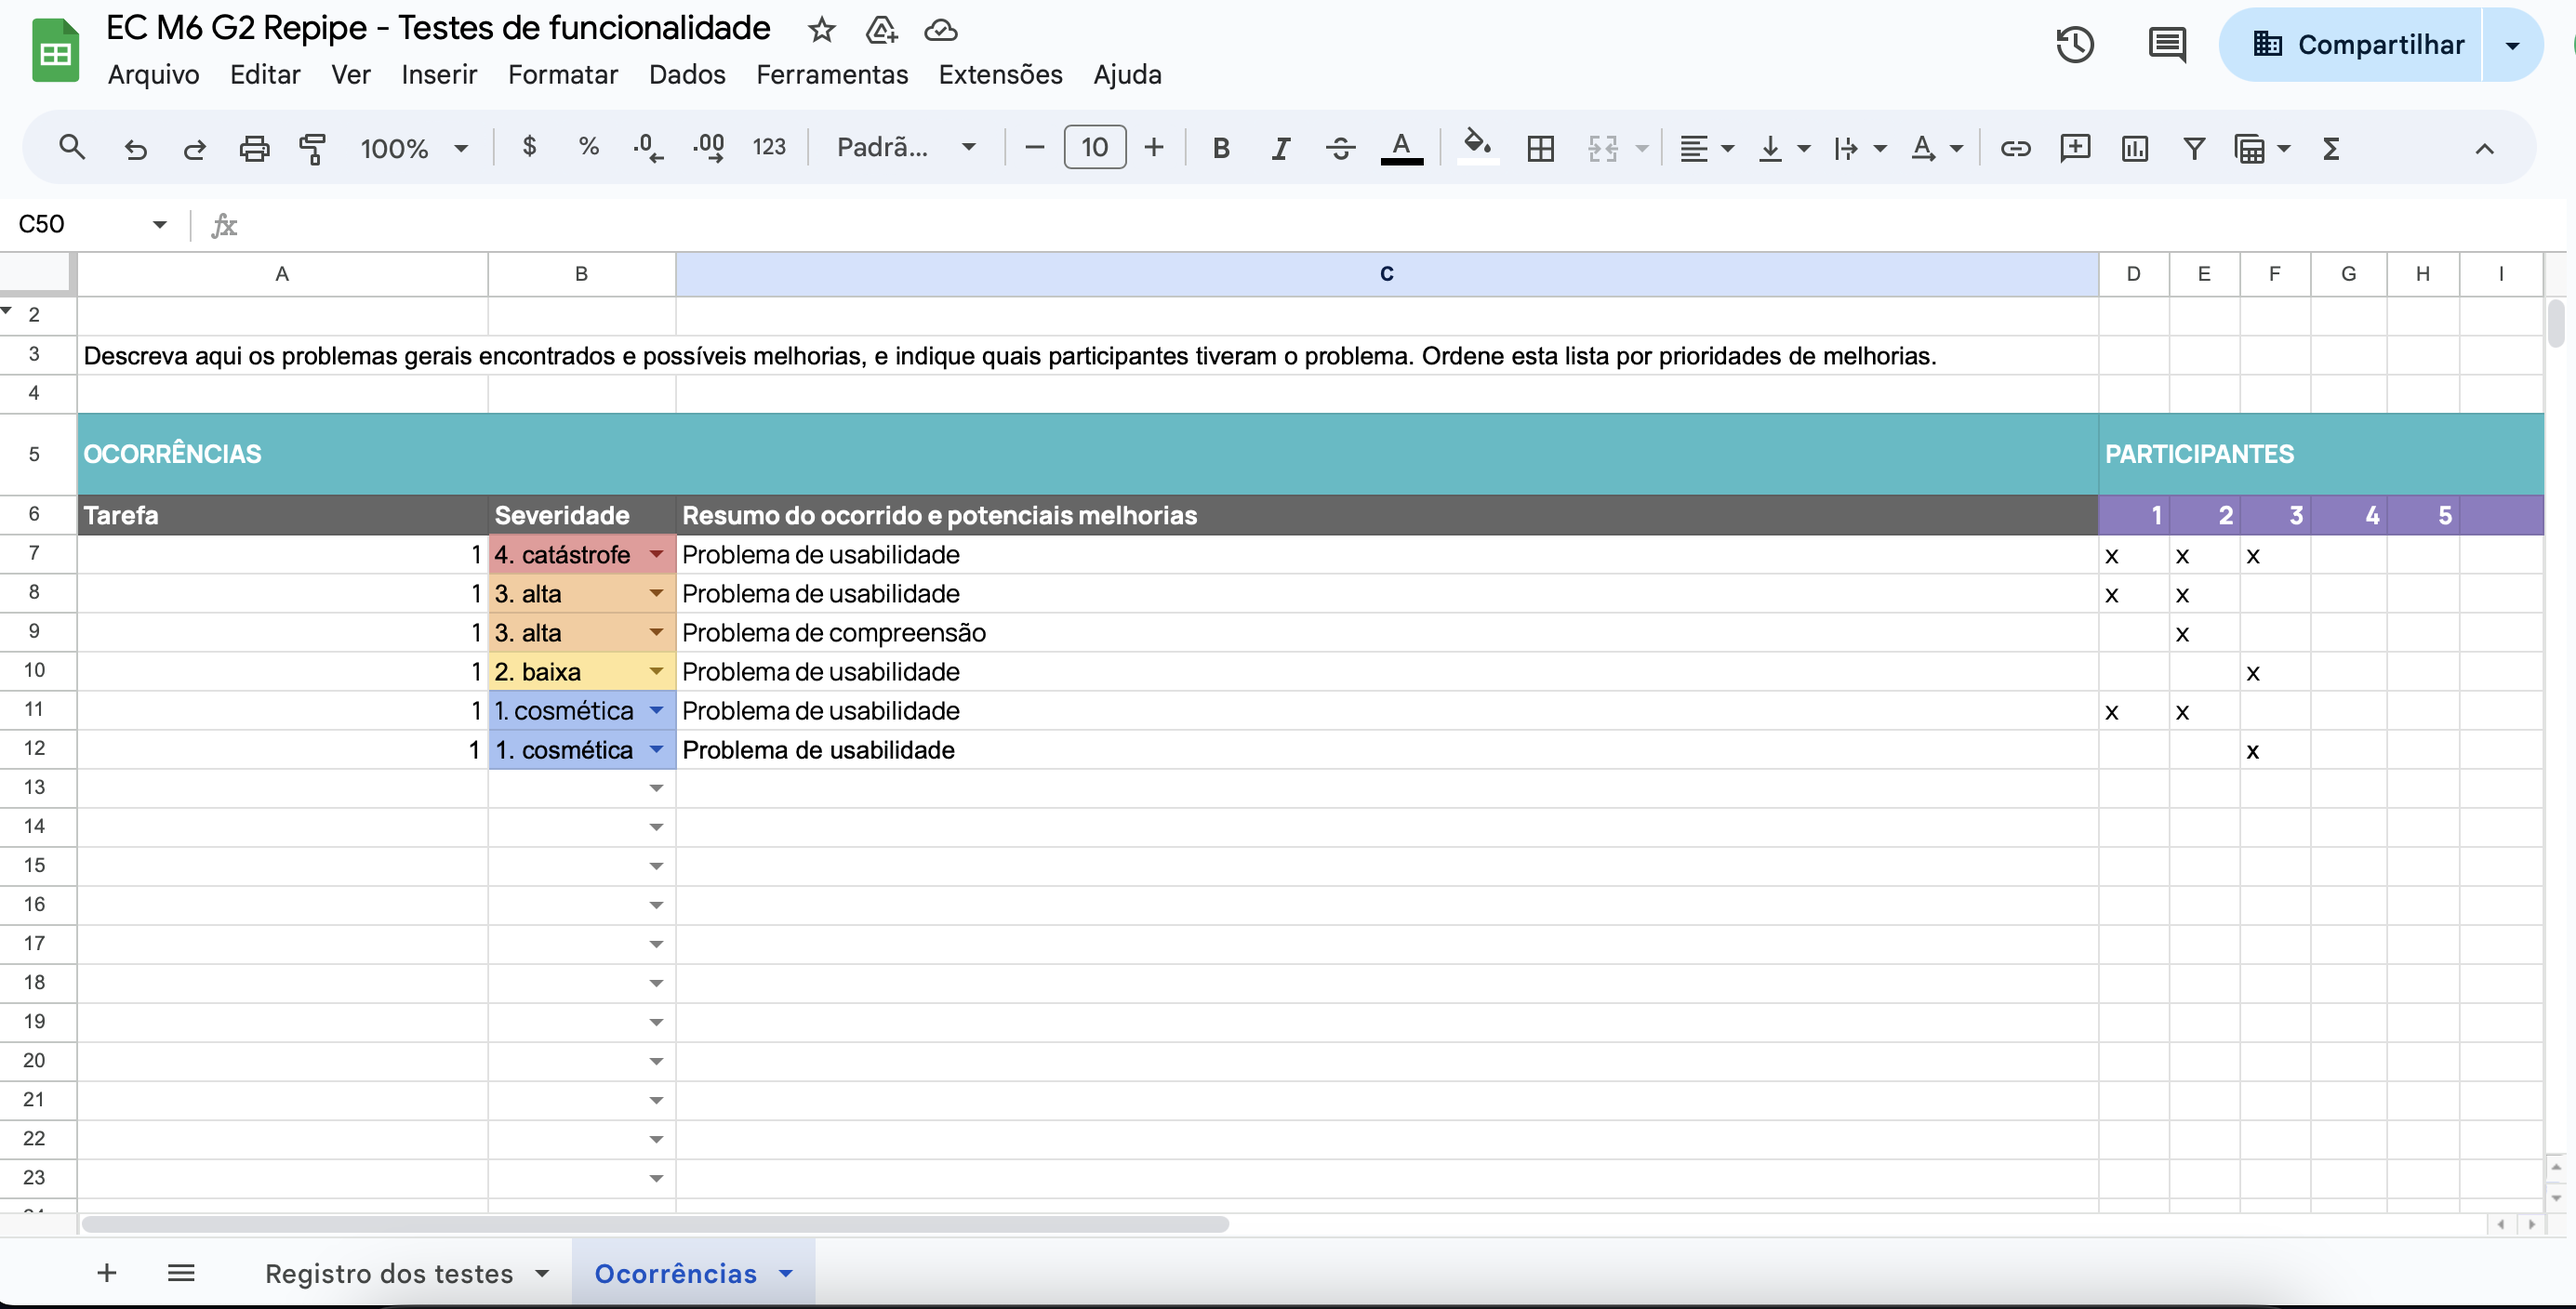
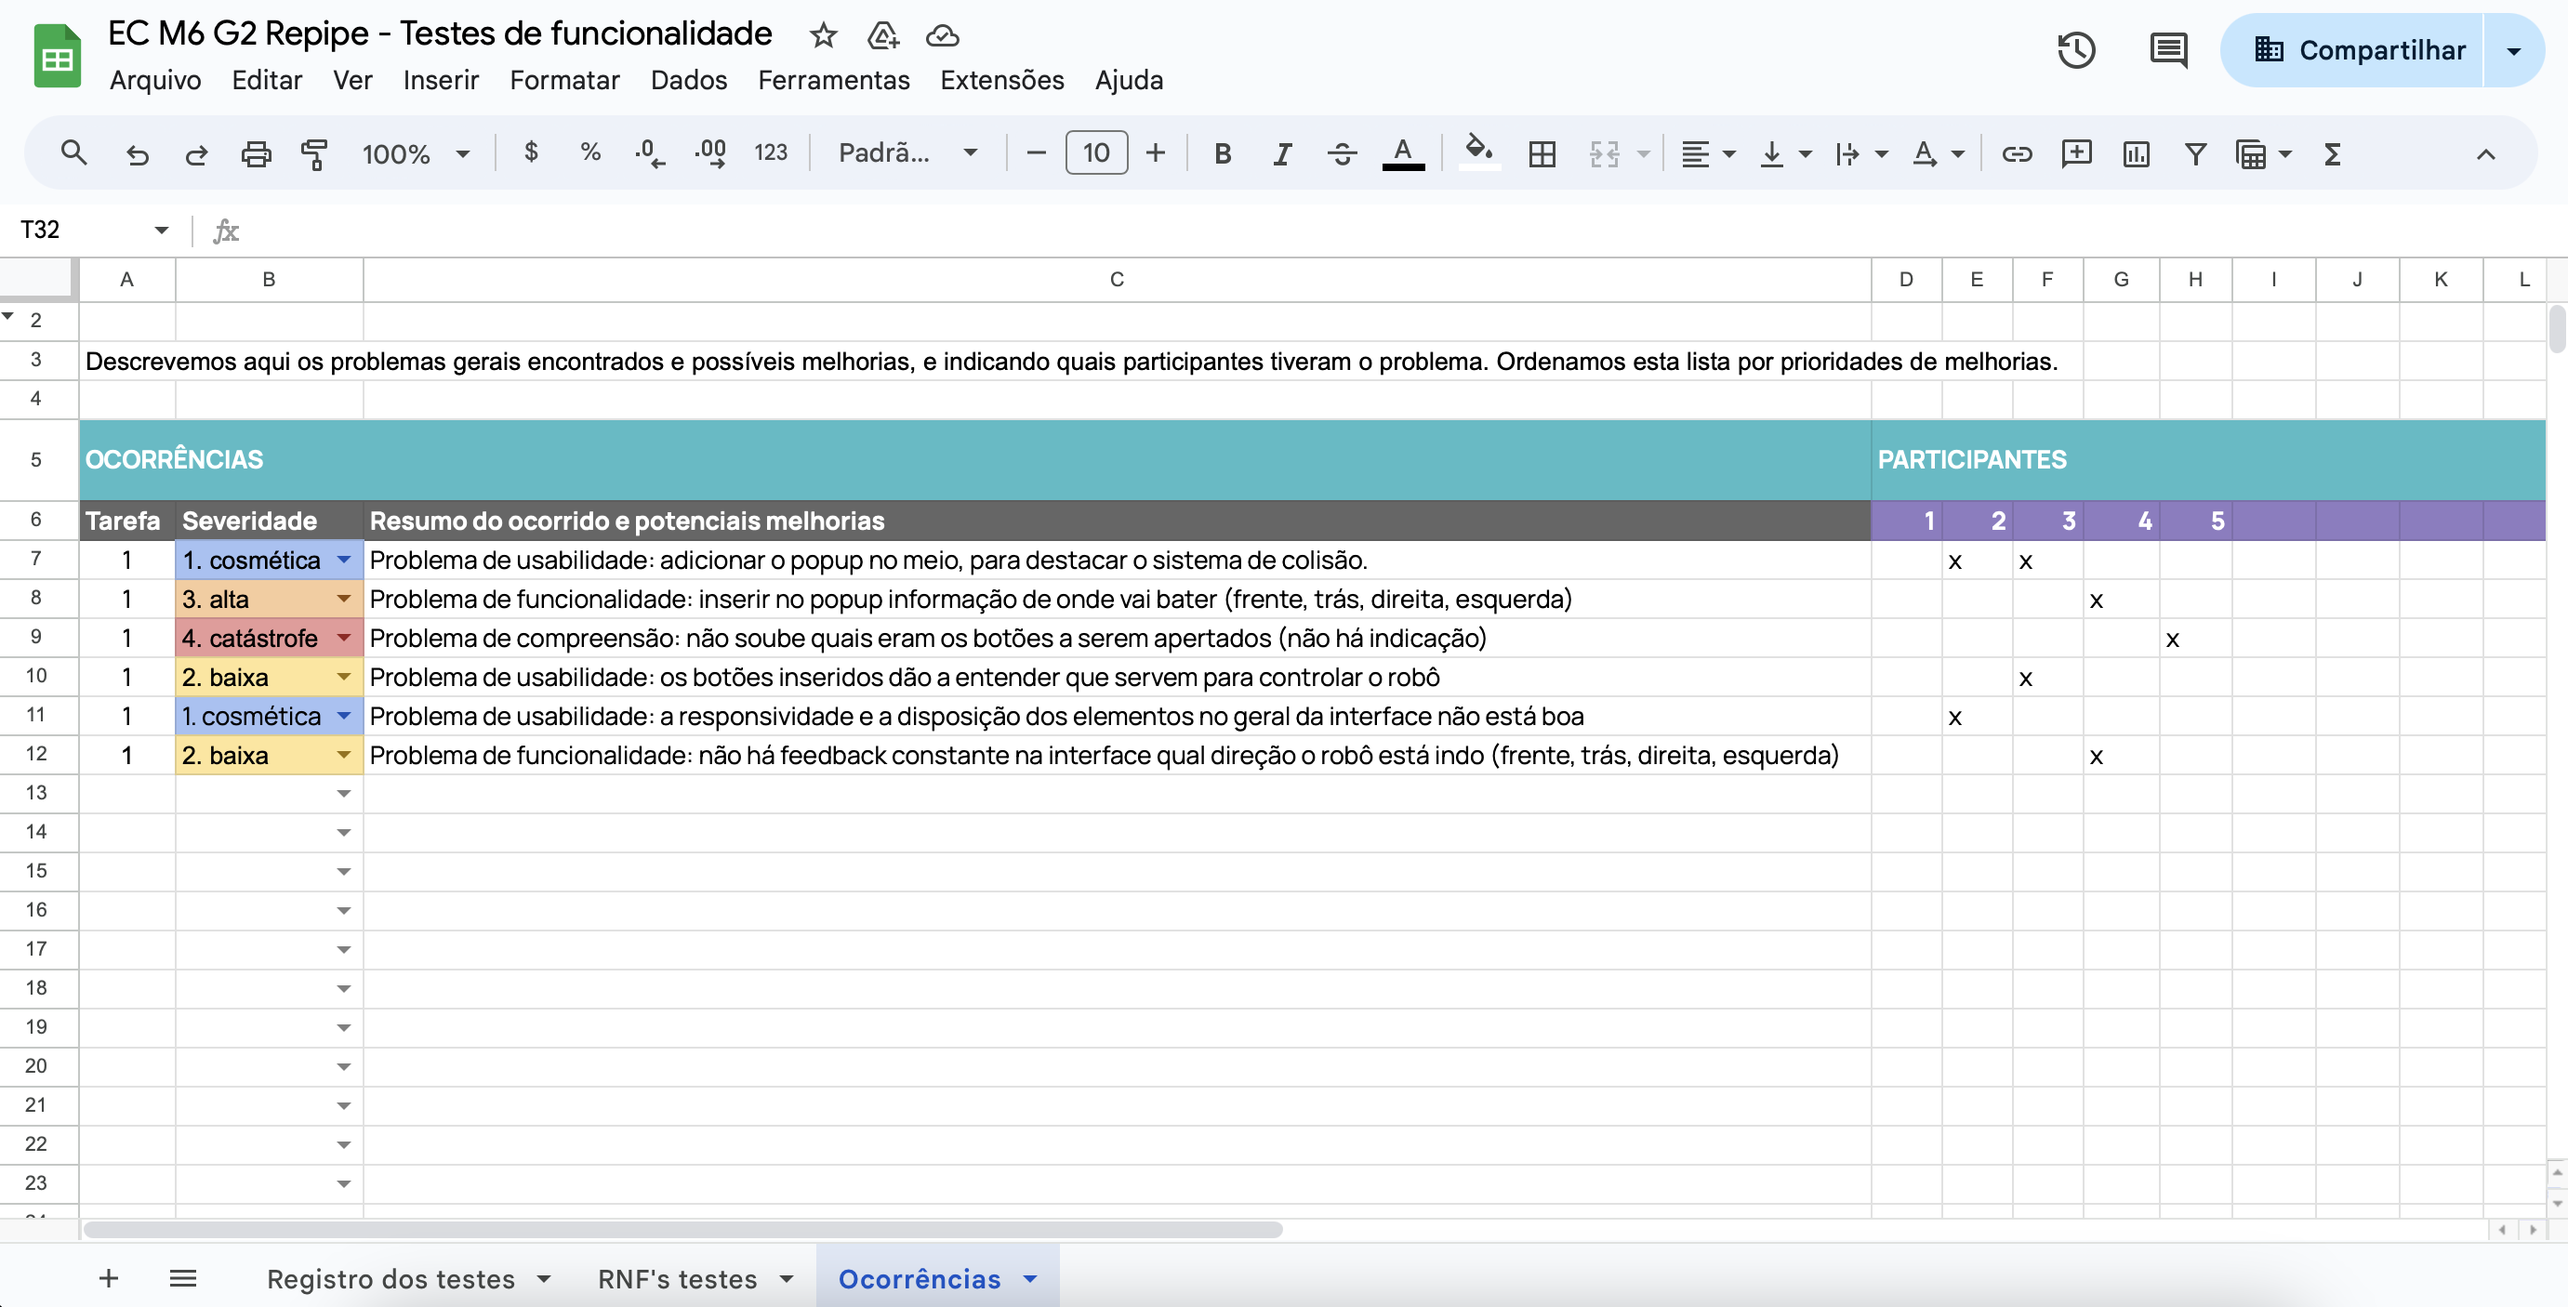
DOCS resultado dos testes de funcionalidade (RFs)

diff --git a/docs/docs/sprint_4/testes_requisitos.md b/docs/docs/sprint_4/testes_requisitos.md
@@ -2,6 +2,7 @@
 sidebar_position: 3
 title: "Teste de Requisitos"
 ---
+# Teste de Requisitos 
 
 Este documento é responsável por detalhar testes de funcionalidade para requisitos funcionais e testes de validação para requisitos não funcionais. 
 
@@ -18,7 +19,7 @@ O RF escolhido se dá pela sua importância na teleoperação do robô e por mes
 ## Roteiro de teste
 Todo teste é seguido por uma **tarefa**. E toda tarefa é realizada por um **perfil/persona** que obtém um **resultado geral** e um resultado **por etapas**. 
 
-Sendo assim, para garantir que o RF esteja de acordo com o estabelecido, criamos critérios para avaliar se o teste foi realizado com sucesso ou não. 
+Sendo assim, para garantir que o RF esteja de acordo com o estabelecido, criamos critérios para avaliar se o teste foi realizado com sucesso ou não. O RF escolhido, neste caso, é a tarefa. 
 
 No geral, avaliamos 4 fatores: 
 
@@ -39,21 +40,38 @@ Os testes foram executados por 4 pessoas, além do teste realizado pelo grupo. O
 
 No geral, este foi o resultado obtido: 
 
-| Tarefa | Perfil/Persona | Resultado Geral |
-|--------|----------------|----------------|
-|   1    | Operador Industrial | Sucesso | 
-|   1    | Operador Industrial | Conseguiu com dificuldade |
-|   1    | Operador Industrial | Não conseguiu |
-|   1    | Operador Industrial | Sucesso |
-|   1    | Operador Industrial | Sucesso |
+| Tarefa | Usuários | Perfil/Persona | Resultado Geral |
+|--------|---------|----------------|----------------|
+|   1    | Grupo   | Operador Industrial | Sucesso |
+|   1    | Antônio Ribeiro (3º Eng Comp)   | Operador Industrial | Sucesso | 
+|   1    | Kaiane Souza (2º Eng Soft)   | Operador Industrial | Sucesso |
+|   1    | André Leal (Téc Laboratório)   | Operador Industrial | Sucesso |
+|   1    | Pablo Ruan (3º Eng Comp)   | Operador Industrial | Conseguiu com dificuldade |
 
-Além disso, destacamos os principais problemas observados, classificando por nível de severidade e potenciais melhorias. Isto pode ser observado na segunda aba "ocorrências" do [mesmo arquivo](https://docs.google.com/spreadsheets/d/1FnYlsAU4UXWCYReaynA9F_aY9sgXys9OXnpAjph5xss/edit?usp=sharing)  Google Sheets.
+Além disso, destacamos os principais problemas observados, classificando por nível de severidade e potenciais melhorias. Isto pode ser observado na segunda aba "ocorrências" do [mesmo arquivo](https://docs.google.com/spreadsheets/d/1FnYlsAU4UXWCYReaynA9F_aY9sgXys9OXnpAjph5xss/edit?usp=sharing) Google Sheets.
+
+Nele também é possível observar se o problema relatado é um problema de funcionalidade, usabilidade ou compreensão. 
 
 ![Relatório de execução](../../static/img/sprint_4/testes_rf_ocorrencias.png)
 
 
 ## Conclusão
-Completar
+Como conclusão do teste de funcionalidade realizado, tivemos os seguintes feedbacks: 
+
+1.	Controle fácil do robô.
+2.	Movimentação intuitiva via teclado.
+3.	Resposta rápida para movimentação.
+4.	Sistema de alerta via pop-up eficaz.
+5.	Resposta rápida do vídeo e imagem.
+
+E como pontos de melhoria, tivemos: 
+
+1.	**Posicionamento do Pop-up**: Mover o pop-up para o centro da tela para destacar mais eficazmente o sistema de colisão.
+2.	**Informações adicionais no Pop-up**: Inserir no pop-up informações sobre a direção da colisão (frente, trás, direita, esquerda) para ajudar na orientação do usuário.
+3.	**Indicação dos botões**: Fornecer indicações claras de quais botões devem ser apertados, possivelmente destacando-os visualmente ou incluindo legendas explicativas.
+4.	**Feedback constante na interface**: Implementar um sistema que ofereça feedback constante sobre a direção em que o robô está se movendo, usando, por exemplo, indicações de cor nos botões ou setas.
+5.	**Melhoria na disposição dos elementos da interface**: Aperfeiçoar a responsividade e a disposição geral dos elementos na interface para melhorar a usabilidade e a estética geral.
+
 
 # Testes de validação: requisito não funcional
 ## Contexto
